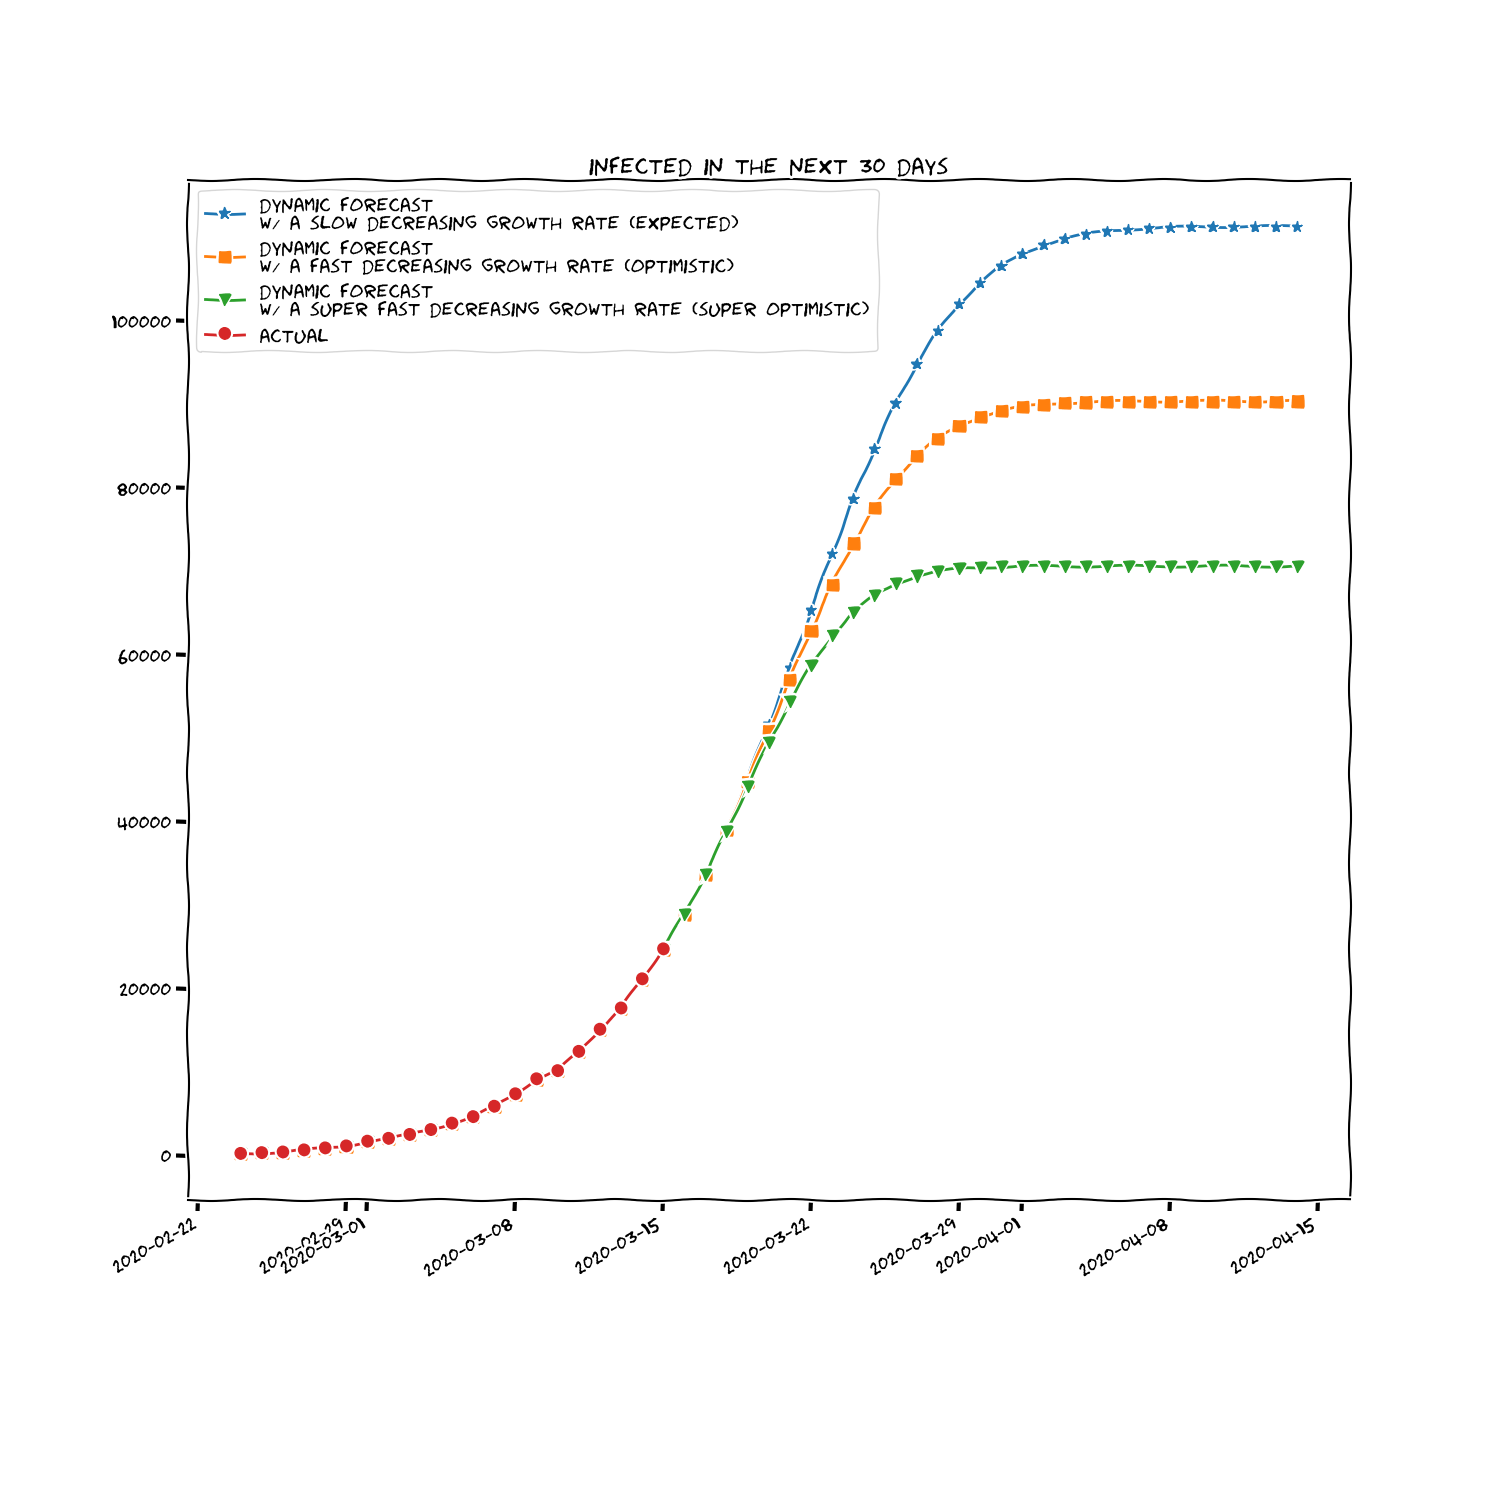
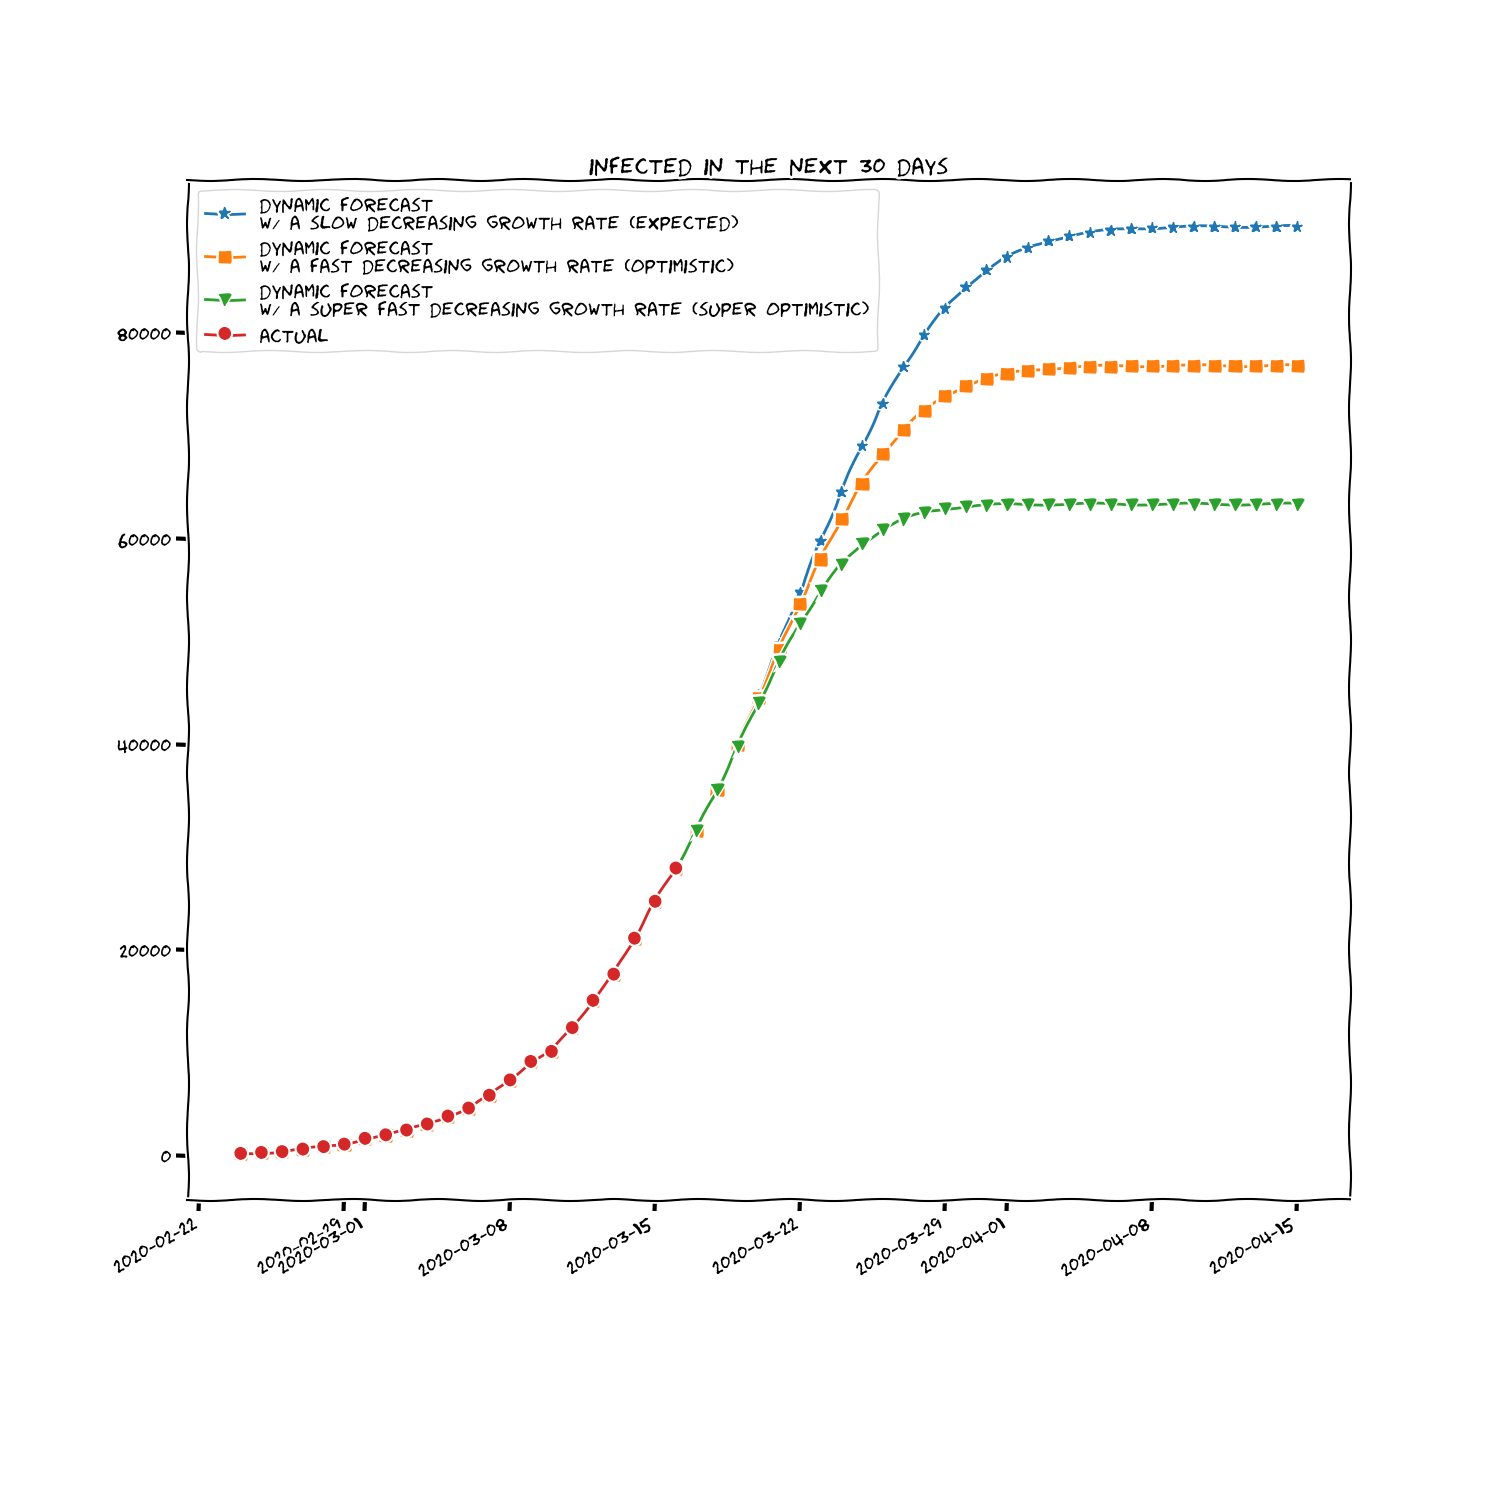
:cherries: update 2020-03-16

diff --git a/report/report.md b/report/report.md
@@ -1,40 +1,40 @@
 <div align='center'>
 
-# 2020-03-15
+# 2020-03-16
 CoVid-19 Italy Monitoring
 </div>
 
-##### Total number of infected individuals is 24747 (+3590)
+##### Total number of infected individuals is 27980 (+3233)
 Infected | Recovered | Dead
 :---: | :---: | :---:
-*20603* | *2335* | *1809*
-*(+2853*) | *(+369*) | (*+368*)
+*23073* | *2749* | *2158*
+*(+2470*) | *(+414*) | (*+349*)
 
-*Total number of tested individuals is 124899 (+15729)*
+*Total number of tested individuals is 137962 (+13063)*
 ***
-##### Current number of infected individuals is 20603 (+2853)
+##### Current number of infected individuals is 23073 (+2470)
 hospitalized | in ICU | home isolation
 :---: | :---: | :---:
-*9663* |*1672* |*9268*
-*(+1291*) |*(+154*) |*(+1408*)
+*11025* |*1851* |*10197*
+*(+1362*) |*(+179*) |*(+929*)
 ***
-##### Growth rate is 0.17 (5 days smoothing is 0.20)
-- *time to 2x* is 4.42 days
-- *time to 10x* is 14.69 days
+##### Growth rate is 0.13 (5 days smoothing is 0.18)
+- *time to 2x* is 5.65 days
+- *time to 10x* is 18.75 days
 ![stats][stats]
 
 ##### Dynamic forecast with a slow decreasing growth rate
 after 3 days | after 5 days | after 10 days | after 20 days | after 30 days
 :---: | :---: | :---: | :---: | :---:
-*39223* |*51703* |*84760* |*110450* |*111379*
+*40132* |*49807* |*73194* |*89825* |*90406*
 ##### Dynamic forecast with a fast decreasing growth rate
 after 3 days | after 5 days | after 10 days | after 20 days | after 30 days
 :---: | :---: | :---: | :---: | :---:
-*39099* |*50935* |*77660* |*90323* |*90439*
+*40031* |*49220* |*68327* |*76783* |*76858*
 ##### Dynamic forecast with a super fast decreasing growth rate
 after 3 days | after 5 days | after 10 days | after 20 days | after 30 days
 :---: | :---: | :---: | :---: | :---:
-*38852* |*49484* |*67154* |*70649* |*70650*
+*39830* |*48105* |*60967* |*63400* |*63401*
 
 
 ![dynamic_forecast][dynamic_forecast]
